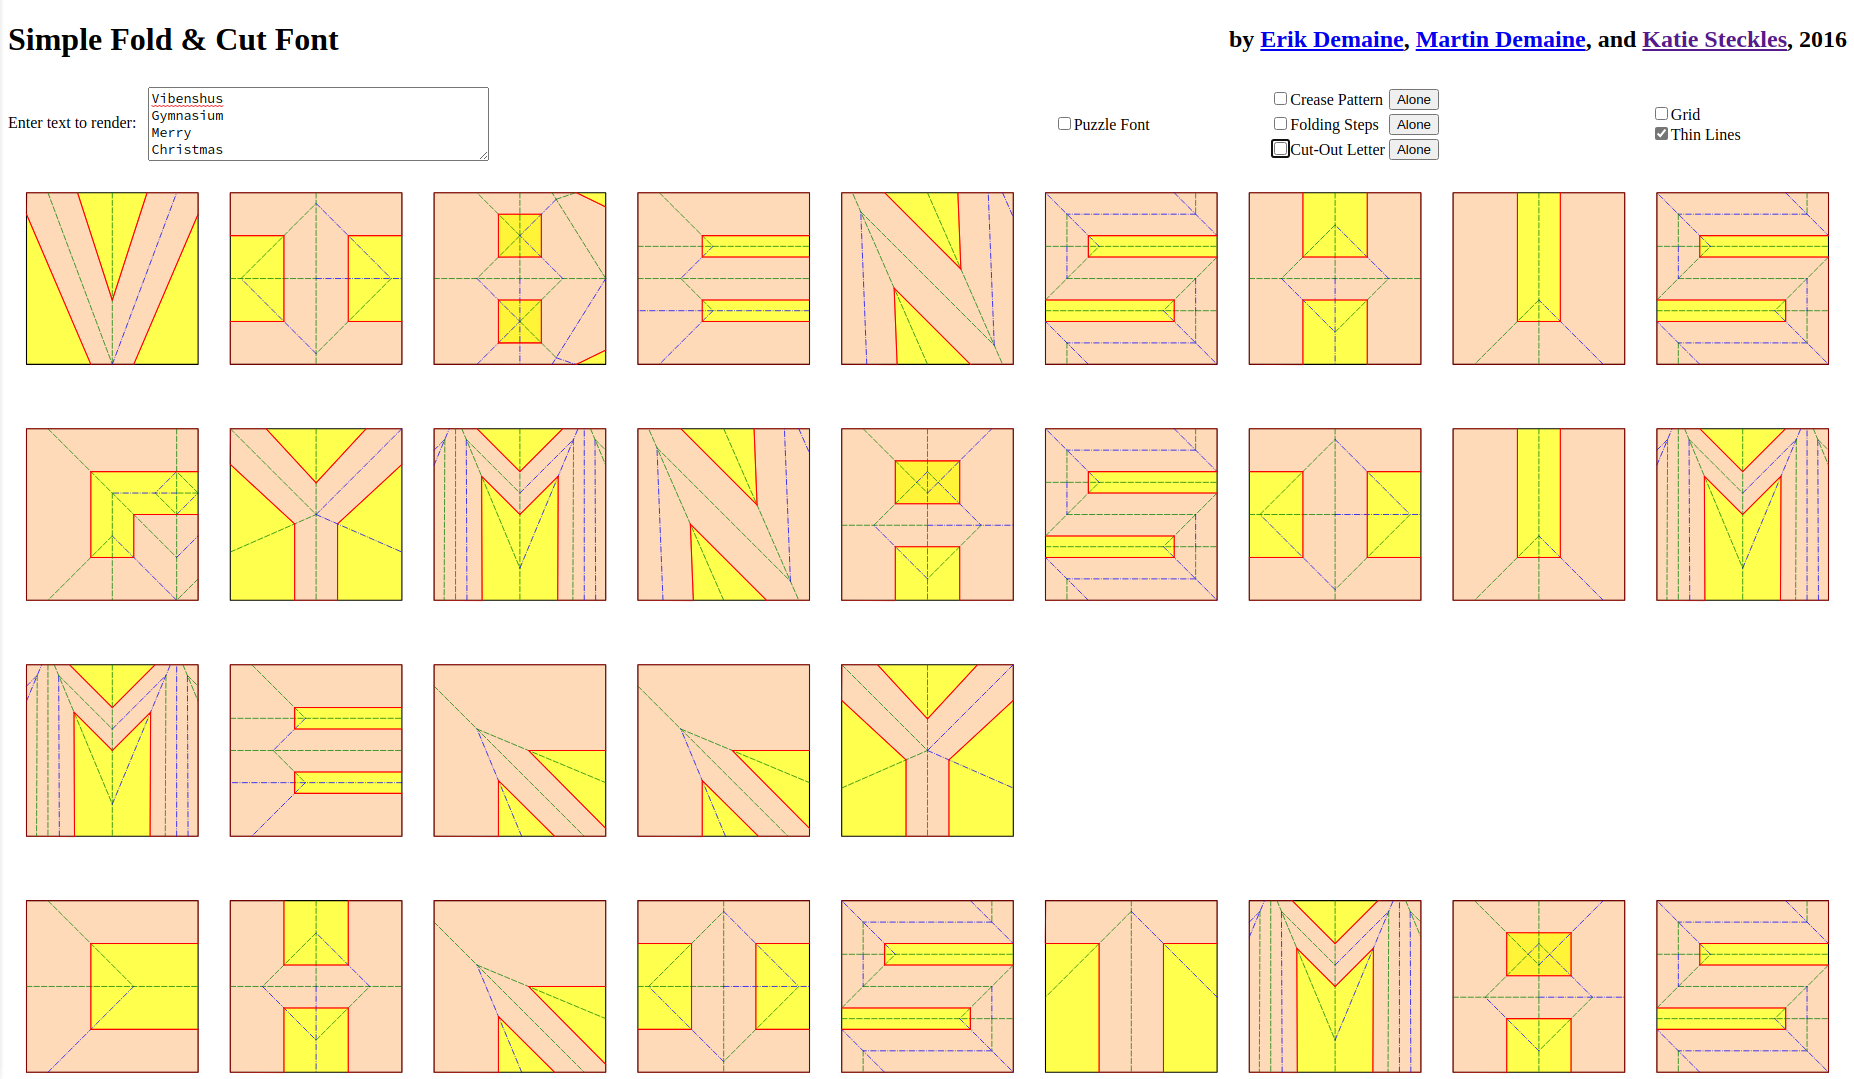
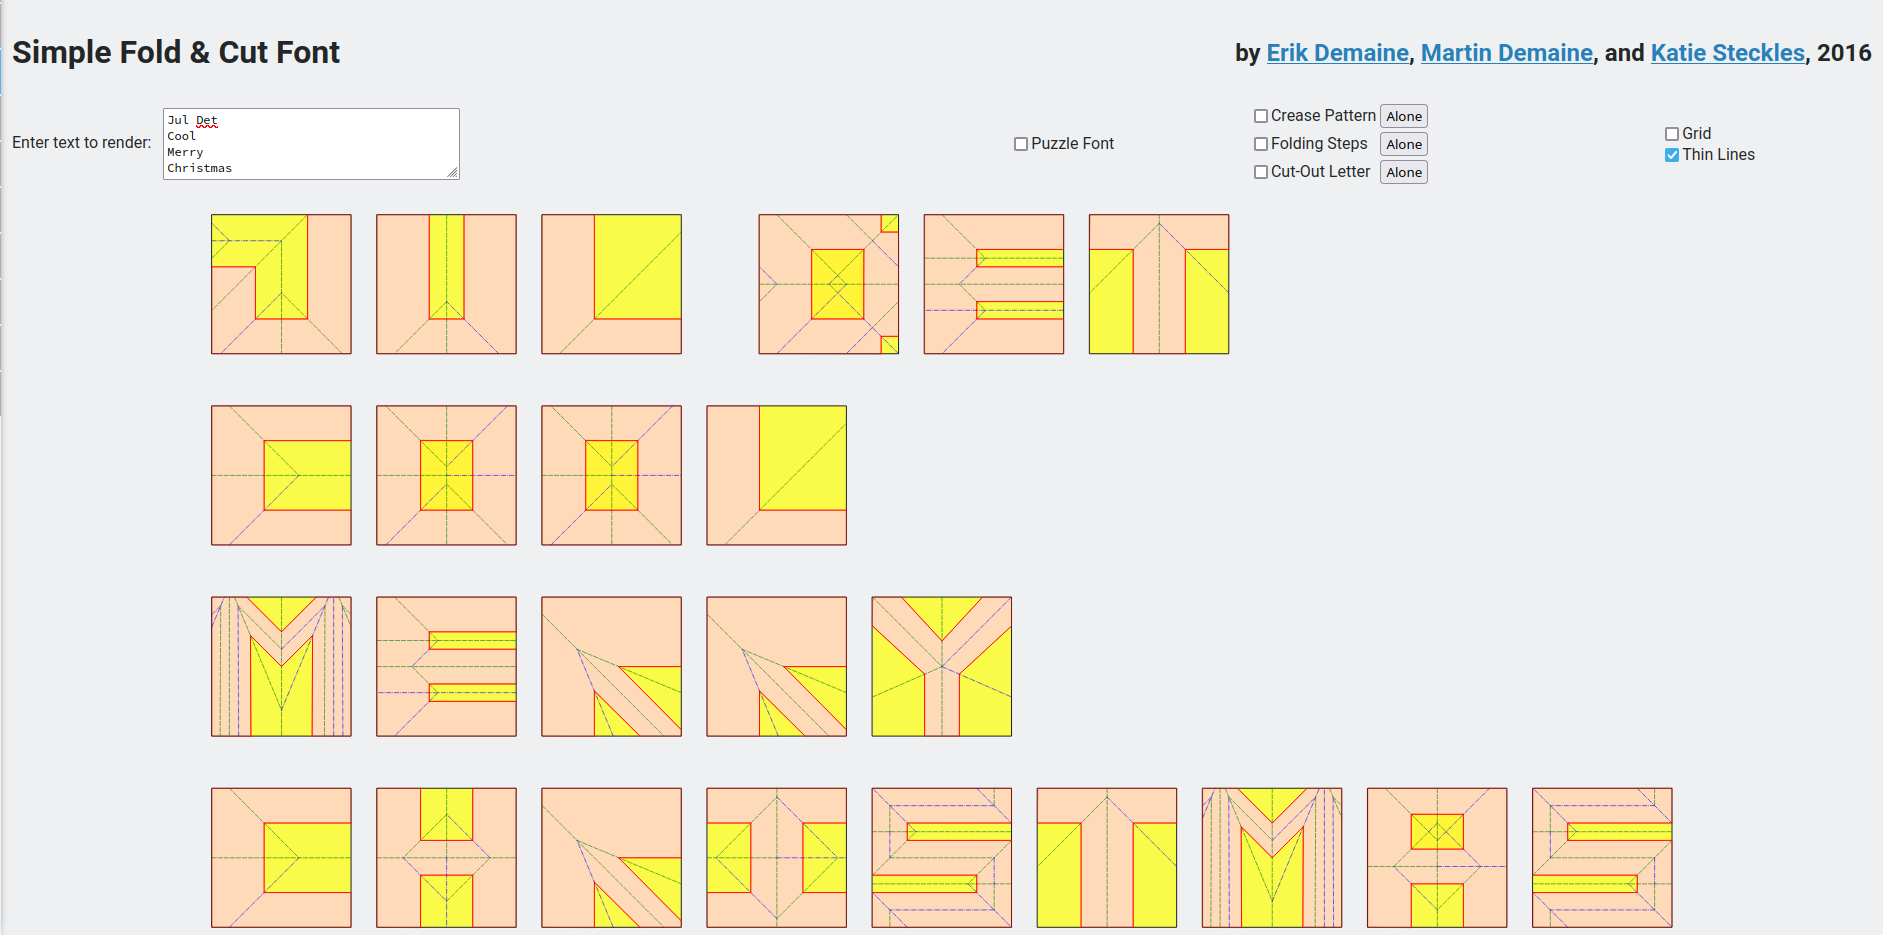
Opdateret udgave med nye bogstaver

diff --git a/Julematematik_fold_and_cut_theorem.html b/Julematematik_fold_and_cut_theorem.html
@@ -19,14 +19,14 @@
 
 
 <section>
-<section id="slide-org2e44d80" data-background="./img/julebaggrund.jpg" style="color:orangered">
-<h2 id="org2e44d80">Pakken</h2>
+<section id="slide-org024c7f0" data-background="./img/julebaggrund.jpg" style="color:orangered">
+<h2 id="org024c7f0">Pakken</h2>
 <p>
 Hvad er det laveste antal lige klip, I kan nøjes med for at klippe pakken ud?
 </p>
 
 
-<div id="orgfd73b3c" class="figure">
+<div id="orgd8e2c02" class="figure">
 <p><img src="img/2021-12-11_22-38-05_screenshot.png" alt="2021-12-11_22-38-05_screenshot.png" height="400px" />
 </p>
 </div>
@@ -35,7 +35,7 @@ Hvad er det laveste antal lige klip, I kan nøjes med for at klippe pakken ud?
 <section data-background="./img/julebaggrund.jpg">
 <div class="column" style="float:left; width: 50%">
 
-<div id="org808f67d" class="figure">
+<div id="orgb499679" class="figure">
 <p><img src="img/2021-12-11_22-38-05_screenshot.png" alt="2021-12-11_22-38-05_screenshot.png" height="400px" />
 </p>
 </div>
@@ -52,8 +52,8 @@ Hvad er det laveste antal lige klip, I kan nøjes med for at klippe pakken ud?
 
 
 </section>
-<section id="slide-org462fc03" data-background="./img/julebaggrund.jpg" style="color:orangered">
-<h3 id="org462fc03">Hvordan?</h3>
+<section id="slide-orgfbdd40f" data-background="./img/julebaggrund.jpg" style="color:orangered">
+<h3 id="orgfbdd40f">Hvordan?</h3>
 <iframe width="600" height="400" src="https://www.youtube.com/embed/Qttl0VfVw_E" title="YouTube video player" frameborder="0" allow="accelerometer; autoplay; clipboard-write; encrypted-media; gyroscope; picture-in-picture" allowfullscreen></iframe>
 
 <p>
@@ -63,8 +63,8 @@ Linket er: <a href="https://youtu.be/Qttl0VfVw_E">https://youtu.be/Qttl0VfVw_E</
 </section>
 </section>
 <section>
-<section id="slide-orgca6c690" data-background="./img/julebaggrund.jpg" style="color:orangered">
-<h2 id="orgca6c690">Hvad ellers?</h2>
+<section id="slide-org9d5964b" data-background="./img/julebaggrund.jpg" style="color:orangered">
+<h2 id="org9d5964b">Hvad ellers?</h2>
 <ul>
 <li class="fragment appear">Kan andre former også klippes ud med kun et enkelt lige klip?</li>
 <li class="fragment appear">Hvilke egenskaber, tænker I, at en figur/form skal have, for at den kan klippes ud med kun ét lige klip?</li>
@@ -78,8 +78,8 @@ Linket er: <a href="https://youtu.be/Qttl0VfVw_E">https://youtu.be/Qttl0VfVw_E</
 </section>
 </section>
 <section>
-<section id="slide-orgf05317d" data-background="./img/julebaggrund.jpg" style="color:orangered">
-<h2 id="orgf05317d">Give it up for Katie Steckles</h2>
+<section id="slide-org82dfe3c" data-background="./img/julebaggrund.jpg" style="color:orangered">
+<h2 id="org82dfe3c">Give it up for Katie Steckles</h2>
 <iframe width="600" height="400" src="https://www.youtube.com/embed/ZREp1mAPKTM" title="YouTube video player" frameborder="0" allow="accelerometer; autoplay; clipboard-write; encrypted-media; gyroscope; picture-in-picture" allowfullscreen></iframe>
 
 <p>
@@ -89,15 +89,15 @@ Linket er: <a href="https://youtu.be/ZREp1mAPKTM">https://youtu.be/ZREp1mAPKTM</
 </section>
 </section>
 <section>
-<section id="slide-org6f50e3b" data-background="./img/julebaggrund.jpg" style="color:orangered">
-<h2 id="org6f50e3b">Lidt mere</h2>
+<section id="slide-orgd00f0d2" data-background="./img/julebaggrund.jpg" style="color:orangered">
+<h2 id="orgd00f0d2">Lidt mere</h2>
 <p>
 Kan I klippe nissehuen og peberkagehuset ud med kun ét lige klip?
 </p>
 
 <div class="column" style="float:left; width: 50%">
 
-<div id="org63d3cb6" class="figure">
+<div id="orgeddba54" class="figure">
 <p><img src="img/2021-12-11_23-02-47_screenshot.png" alt="2021-12-11_23-02-47_screenshot.png" height="400px" />
 </p>
 </div>
@@ -106,7 +106,7 @@ Kan I klippe nissehuen og peberkagehuset ud med kun ét lige klip?
 
 <div class="column" style="float:right; width: 50%">
 
-<div id="org2e1936a" class="figure">
+<div id="org02126ec" class="figure">
 <p><img src="img/2021-12-11_23-03-24_screenshot.png" alt="2021-12-11_23-03-24_screenshot.png" height="400px" />
 </p>
 </div>
@@ -114,8 +114,8 @@ Kan I klippe nissehuen og peberkagehuset ud med kun ét lige klip?
 </div>
 
 </section>
-<section id="slide-orgae38a60" data-background="./img/julebaggrund.jpg" style="color:orangered">
-<h3 id="orgae38a60">Nissehuen</h3>
+<section id="slide-orgfd07c17" data-background="./img/julebaggrund.jpg" style="color:orangered">
+<h3 id="orgfd07c17">Nissehuen</h3>
 <iframe width="600" height="400" src="https://www.youtube.com/embed/831ifSbTxlI" title="YouTube video player" frameborder="0" allow="accelerometer; autoplay; clipboard-write; encrypted-media; gyroscope; picture-in-picture" allowfullscreen></iframe>
 
 <p>
@@ -123,8 +123,8 @@ Linket er: <a href="https://youtu.be/831ifSbTxlI">https://youtu.be/831ifSbTxlI</
 </p>
 
 </section>
-<section id="slide-org6e69a40" data-background="./img/julebaggrund.jpg" style="color:orangered">
-<h3 id="org6e69a40">Peberkagehuset</h3>
+<section id="slide-org1a9cd64" data-background="./img/julebaggrund.jpg" style="color:orangered">
+<h3 id="org1a9cd64">Peberkagehuset</h3>
 <iframe width="600" height="400" src="https://www.youtube.com/embed/-VfCnEzXohM" title="YouTube video player" frameborder="0" allow="accelerometer; autoplay; clipboard-write; encrypted-media; gyroscope; picture-in-picture" allowfullscreen></iframe>
 
 <p>
@@ -133,10 +133,10 @@ Linket er: <a href="https://youtu.be/-VfCnEzXohM">https://youtu.be/-VfCnEzXohM</
 </section>
 </section>
 <section>
-<section id="slide-org098bd3e" data-background="./img/julebaggrund.jpg" style="color:orangered">
-<h2 id="org098bd3e">Et juletræ</h2>
+<section id="slide-org57dd9bf" data-background="./img/julebaggrund.jpg" style="color:orangered">
+<h2 id="org57dd9bf">Et juletræ</h2>
 
-<div id="org6f2f95e" class="figure">
+<div id="org63070c5" class="figure">
 <p><img src="img/2021-12-11_23-36-00_screenshot.png" alt="2021-12-11_23-36-00_screenshot.png" height="500px" />
 </p>
 </div>
@@ -152,10 +152,10 @@ Linket er: <a href="https://youtu.be/YT-xO15pVng">https://youtu.be/YT-xO15pVng</
 </section>
 </section>
 <section>
-<section id="slide-org80c7f56" data-background="./img/julebaggrund.jpg" style="color:orangered">
-<h2 id="org80c7f56">En julestjerne</h2>
+<section id="slide-org1aac23a" data-background="./img/julebaggrund.jpg" style="color:orangered">
+<h2 id="org1aac23a">En julestjerne</h2>
 
-<div id="orgfd0aca7" class="figure">
+<div id="orgd8ebc14" class="figure">
 <p><img src="./img/stjerne.jpg" alt="stjerne.jpg" height="400px" />
 </p>
 </div>
@@ -170,14 +170,14 @@ Katie Steckles viste det faktisk ved 2:50
 </section>
 </section>
 <section>
-<section id="slide-org5dc78ff" data-background="./img/julebaggrund.jpg" style="color:orangered">
-<h2 id="org5dc78ff">Hvad med Katies alfabet?</h2>
+<section id="slide-orgb6ee7f2" data-background="./img/julebaggrund.jpg" style="color:orangered">
+<h2 id="orgb6ee7f2">Hvad med Katies alfabet?</h2>
 <p>
 Kan I i fællesskab få skrevet
 </p>
 
 <p>
-<b>Vibenshus Gymnasium</b>
+<b>Jul Det Cool</b>
 </p>
 
 <p>
@@ -191,7 +191,7 @@ Kan I i fællesskab få skrevet
 </p>
 
 
-<div id="orgc916fd6" class="figure">
+<div id="orgae28e24" class="figure">
 <p><img src="./img/bogstaver.png" alt="bogstaver.png" height="400px" />
 </p>
 </div>
@@ -199,16 +199,16 @@ Kan I i fællesskab få skrevet
 </section>
 </section>
 <section>
-<section id="slide-orged3e491" data-background="./img/julebaggrund.jpg" style="color:orangered">
-<h2 id="orged3e491">Giv den gas</h2>
+<section id="slide-orga8dbdfb" data-background="./img/julebaggrund.jpg" style="color:orangered">
+<h2 id="orga8dbdfb">Giv den gas</h2>
 <p>
 Hvor meget sejt matematikjulepynt kan I nå at lave og hænge op?
 </p>
 </section>
 </section>
 <section>
-<section id="slide-org425a364" data-background="./img/julebaggrund.jpg" style="color:orangered">
-<h2 id="org425a364">Bonus</h2>
+<section id="slide-orga84c402" data-background="./img/julebaggrund.jpg" style="color:orangered">
+<h2 id="orga84c402">Bonus</h2>
 <div style="font-size: 60%;">
 <p>
 Matt Parker har også foldet og klippet en flagermus i anledning af halloween.
@@ -237,7 +237,7 @@ controls: true,
 progress: true,
 history: false,
 center: false,
-slideNumber: 'c/t',
+slideNumber: 'c',
 rollingLinks: false,
 keyboard: true,
 mouseWheel: false,
